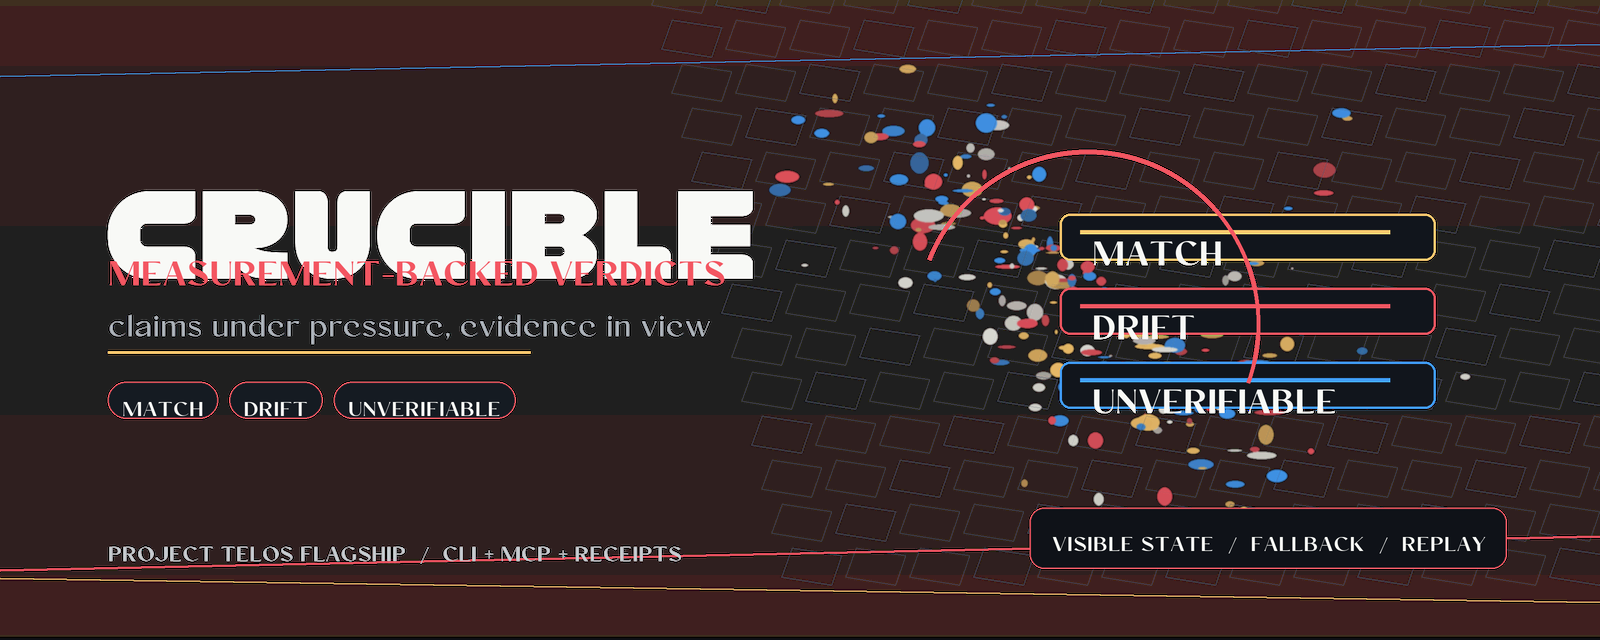
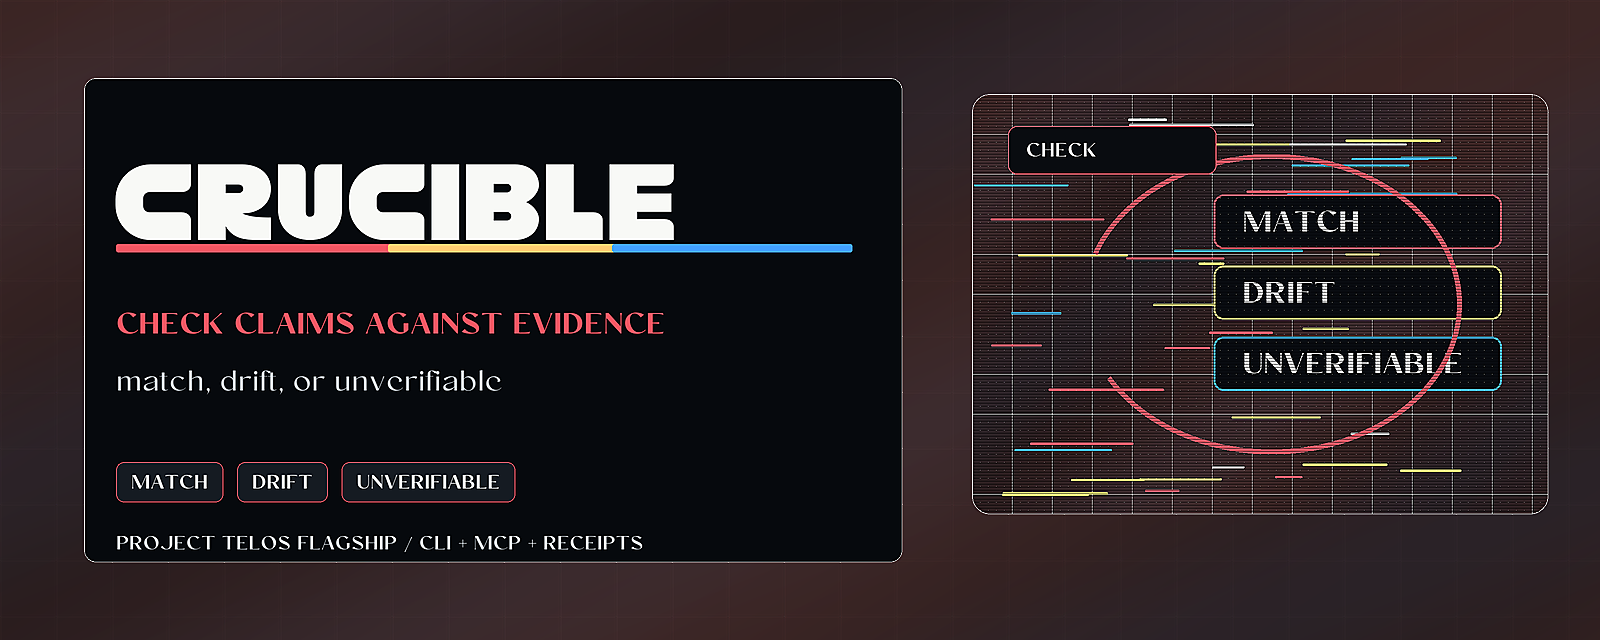
Improve flagship presentation assets

diff --git a/docs/brand/README.md b/docs/brand/README.md
@@ -1,13 +1,15 @@
 # Crucible Brand Assets
 
-The README hero image in this folder was refreshed on 2026-06-28 as part of the Project Telos rendering dogfood pass.
+The README hero image in this folder was refreshed on 2026-06-29 as part of the Project Telos rendering dogfood pass.
 
 ## Rendering Receipt
 
 - Source contract: `telos.rendering.research` in the Telos repository.
-- Visual research lane: Gaussian-splatting fields, clustered-forward lighting grids, visible state overlays, and receipt-first UI composition.
+- Renderer: `project-telos.brand-render/v2`, maintained in `telos/tools/render_flagship_heroes.py`.
+- Visual research lane: Gaussian-splatting fields, clustered-forward lighting grids, visible state overlays, retro CGI texture, dithering, and receipt-first UI composition.
+- Critique lane: `r/design`, `r/design_critiques`, and `r/posterdesign` are used as non-evidentiary presentation references for hierarchy, focal control, poster readability, and effect restraint.
 - Product role: measurement-backed claim evaluation.
 - Tool-specific motif: verdict bands and pressure traces.
 - Typography: rendered locally from the operator-owned Kilon and Conso font packages. The public repository carries only the exported artwork, not the purchased font files.
-- Accessibility floor: high-contrast foreground text, non-color-only status labels, and static PNG fallback for GitHub and low-capability hosts.
+- Accessibility floor: high-contrast foreground text, a solid no-texture text field, non-color-only status labels, and static PNG fallback for GitHub and low-capability hosts.
 - Provenance boundary: Reddit and community links are treated as non-evidentiary source leads; implementation claims resolve through lawful papers, standards, official repositories, and repeatable local checks.

diff --git a/README.md b/README.md
@@ -1,11 +1,11 @@
 <p align="center">
-  <img src="docs/brand/crucible-hero.png" alt="crucible, a Project Telos flagship for measurement-backed claim evaluation">
+  <img src="docs/brand/crucible-hero.png" alt="Crucible, check claims against evidence">
 </p>
 <!-- Project mark: docs/brand/crucible-mark.svg -->
 
 # crucible
 
-> Turn claims into verdicts grounded in measurement.
+> Check claims against evidence and return a verdict.
 
 [Project Telos](https://harperz9.github.io) | [gather](https://github.com/HarperZ9/gather) | [crucible](https://github.com/HarperZ9/crucible) | [index](https://github.com/HarperZ9/index) | [forum](https://github.com/HarperZ9/forum) | [telos](https://github.com/HarperZ9/telos)
 